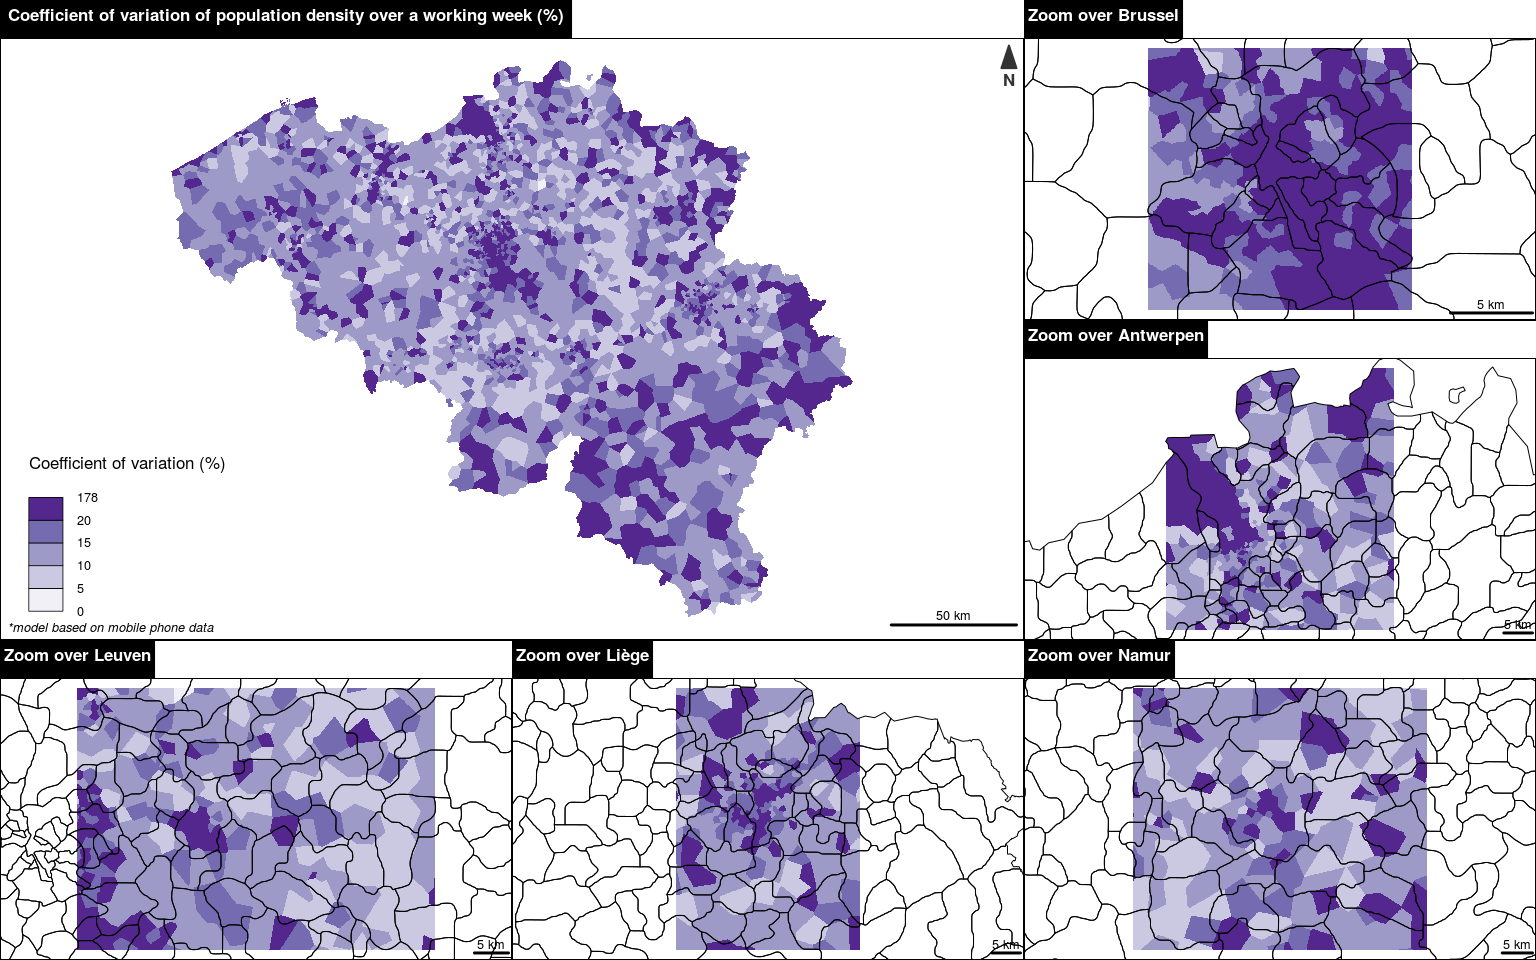
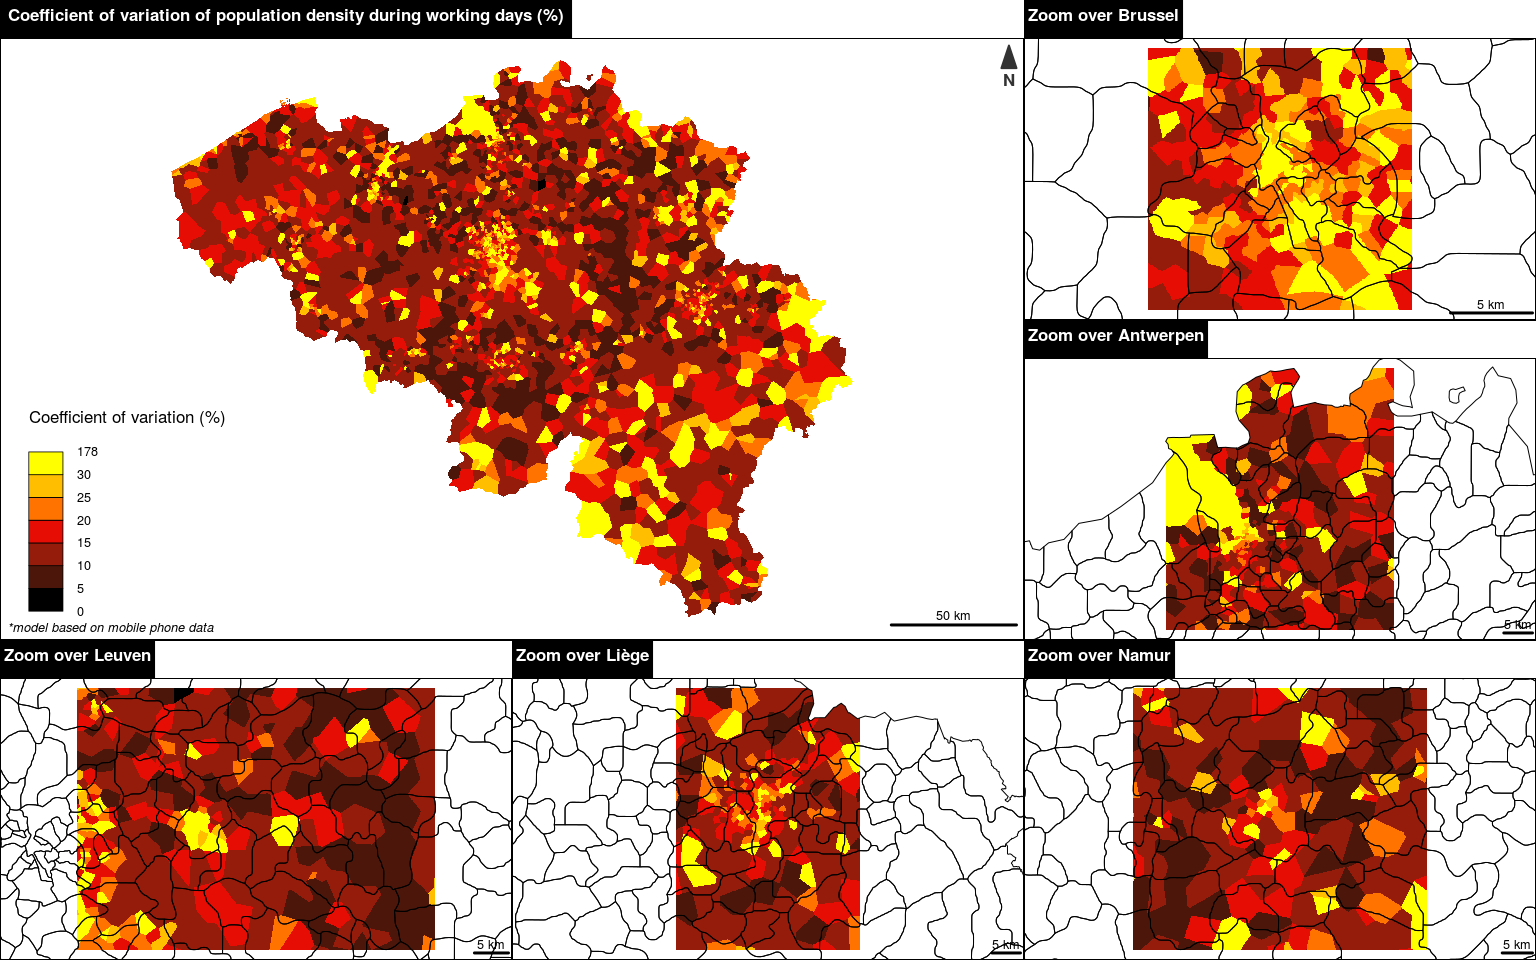
Update smartpop 6

diff --git a/content/post/2018-10-08-dynamic-population-mapping-smartpop-part-6.html b/content/post/2018-10-08-dynamic-population-mapping-smartpop-part-6.html
@@ -13,7 +13,6 @@ tags:
 header:
   caption: ''
   image: ''
-draft: true
 ---
 
 
@@ -26,19 +25,12 @@ shp &lt;- gdal_polygonizeR(r, &quot;/media/ubuntu/DATA/Data/Smartpop/Zone/zone_5
 <pre class="r"><code>library(sf)
 library(dplyr)
 
-shp &lt;- st_read(&quot;/media/ubuntu/DATA/Data/Smartpop/Zone/zone_50m_0.85km2.shp&quot;)
+shp &lt;- st_read(&quot;/media/ubuntu/DATA/Data/Smartpop/Zone/zone_50m_0.85km2.shp&quot;, quiet = T)
 shp &lt;- shp[!(shp$DN == 0), ]
 shp &lt;- shp[order(shp$DN),]  # needed to correctly cbind matrix data
 colnames(shp)[1] &lt;- &quot;ID_Grid&quot; 
 shp_dissolve &lt;- shp %&gt;% group_by(ID_Grid) %&gt;% summarize() # remove small polygons
 st_write(shp_dissolve, &quot;/media/ubuntu/DATA/Data/Smartpop/Zone/zone_50m_0.85km2_dissolve.shp&quot;)</code></pre>
-<pre><code>## Reading layer `zone_50m_0.85km2_dissolve&#39; from data source `/media/ubuntu/DATA/Data/Smartpop/Zone/zone_50m_0.85km2_dissolve.shp&#39; using driver `ESRI Shapefile&#39;
-## Simple feature collection with 3317 features and 1 field
-## geometry type:  MULTIPOLYGON
-## dimension:      XY
-## bbox:           xmin: 23052 ymin: 21127 xmax: 295252 ymax: 243827
-## epsg (SRID):    NA
-## proj4string:    NA</code></pre>
 <div id="population" class="section level2">
 <h2>Population</h2>
 <pre class="r"><code>library(raster)
@@ -75,7 +67,7 @@ fwrite(area, &quot;/media/ubuntu/DATA/Data/Smartpop/Zone/area_085_inKm2.csv&quot
 <pre class="r"><code>library(reshape)
 library(geosphere)
 
-shp &lt;- st_read(&quot;/media/ubuntu/DATA/Data/Smartpop/Zone/zone_50m_0.85km2_dissolve.shp&quot;)
+shp &lt;- st_read(&quot;/media/ubuntu/DATA/Data/Smartpop/Zone/zone_50m_0.85km2_dissolve.shp&quot;, quiet = T)
 st_crs(shp) &lt;- &quot;+proj=lcc +lat_1=51.16666723333333 +lat_2=49.8333339 +lat_0=90 +lon_0=4.367486666666666 +x_0=150000.013
 +y_0=5400088.438 +ellps=intl +units=m +no_defs&quot;
 
@@ -192,39 +184,18 @@ plotmap(map)</code></pre>
 </div>
 <div id="load-shapefile-for-subsetting-and-plotting" class="section level2">
 <h2>Load shapefile for subsetting and plotting</h2>
-<pre class="r"><code>region &lt;- st_read(&quot;/home/ubuntu/Dropbox/Research/Projects/SMARTPOP/Data/Belgium_Adm/BEL_adm_shp/BEL_adm3.shp&quot;)</code></pre>
-<pre><code>## Reading layer `BEL_adm3&#39; from data source `/home/ubuntu/Dropbox/Research/Projects/SMARTPOP/Data/Belgium_Adm/BEL_adm_shp/BEL_adm3.shp&#39; using driver `ESRI Shapefile&#39;
-## Simple feature collection with 44 features and 15 fields
-## geometry type:  MULTIPOLYGON
-## dimension:      XY
-## bbox:           xmin: 2.555356 ymin: 49.49722 xmax: 6.40787 ymax: 51.50382
-## epsg (SRID):    4326
-## proj4string:    +proj=longlat +datum=WGS84 +no_defs</code></pre>
-<pre class="r"><code>region &lt;- st_transform(region, st_crs(shp))
+<pre class="r"><code>region &lt;- st_read(&quot;/home/ubuntu/Dropbox/Research/Projects/SMARTPOP/Data/Belgium_Adm/BEL_adm_shp/BEL_adm3.shp&quot;, quiet = T)
+region &lt;- st_transform(region, st_crs(shp))
 
-commune &lt;- st_read(&quot;/home/ubuntu/Dropbox/Research/Projects/SMARTPOP/Data/Belgium_Adm/BEL_adm_shp/BEL_adm4.shp&quot;)</code></pre>
-<pre><code>## Reading layer `BEL_adm4&#39; from data source `/home/ubuntu/Dropbox/Research/Projects/SMARTPOP/Data/Belgium_Adm/BEL_adm_shp/BEL_adm4.shp&#39; using driver `ESRI Shapefile&#39;
-## Simple feature collection with 589 features and 16 fields
-## geometry type:  MULTIPOLYGON
-## dimension:      XY
-## bbox:           xmin: 2.555356 ymin: 49.49722 xmax: 6.40787 ymax: 51.50382
-## epsg (SRID):    4326
-## proj4string:    +proj=longlat +datum=WGS84 +no_defs</code></pre>
-<pre class="r"><code>commune &lt;- st_transform(commune, st_crs(shp))</code></pre>
+commune &lt;- st_read(&quot;/home/ubuntu/Dropbox/Research/Projects/SMARTPOP/Data/Belgium_Adm/BEL_adm_shp/BEL_adm4.shp&quot;, quiet = T)
+commune &lt;- st_transform(commune, st_crs(shp))</code></pre>
 <pre class="r"><code>library(matrixStats)
 library(cartography)
 
 UncertaintySpatialCV_mean &lt;- rowSds(as.matrix(UncertaintySpatialCV[, -1]), na.rm = T)
 
-shp &lt;- st_read(&quot;/media/ubuntu/DATA/Data/Smartpop/Zone/zone_50m_0.85km2_dissolve.shp&quot;)</code></pre>
-<pre><code>## Reading layer `zone_50m_0.85km2_dissolve&#39; from data source `/media/ubuntu/DATA/Data/Smartpop/Zone/zone_50m_0.85km2_dissolve.shp&#39; using driver `ESRI Shapefile&#39;
-## Simple feature collection with 3317 features and 1 field
-## geometry type:  MULTIPOLYGON
-## dimension:      XY
-## bbox:           xmin: 23052 ymin: 21127 xmax: 295252 ymax: 243827
-## epsg (SRID):    NA
-## proj4string:    NA</code></pre>
-<pre class="r"><code>st_crs(shp) &lt;- &quot;+proj=lcc +lat_1=51.16666723333333 +lat_2=49.8333339 +lat_0=90 +lon_0=4.367486666666666 +x_0=150000.013
+shp &lt;- st_read(&quot;/media/ubuntu/DATA/Data/Smartpop/Zone/zone_50m_0.85km2_dissolve.shp&quot;, quiet = T)
+st_crs(shp) &lt;- &quot;+proj=lcc +lat_1=51.16666723333333 +lat_2=49.8333339 +lat_0=90 +lon_0=4.367486666666666 +x_0=150000.013
 +y_0=5400088.438 +ellps=intl +units=m +no_defs&quot;
 
 shp &lt;- cbind(shp, UncertaintySpatialCV_mean)
@@ -265,13 +236,6 @@ for (city in c(&quot;Brussel&quot;, &quot;Antwerpen&quot;, &quot;Leuven&quot;, &
 <pre class="r"><code># plot(popVoro$pop, UncertaintySpatialCV_mean, xlab = &quot;Population density (inhab./km²)&quot;, 
 #      ylab = &quot;Uncertainty (inhab./km²)&quot;)</code></pre>
 <p>We can make similar map with relative uncertainty.</p>
-<pre><code>## Reading layer `zone_50m_0.85km2_dissolve&#39; from data source `/media/ubuntu/DATA/Data/Smartpop/Zone/zone_50m_0.85km2_dissolve.shp&#39; using driver `ESRI Shapefile&#39;
-## Simple feature collection with 3317 features and 1 field
-## geometry type:  MULTIPOLYGON
-## dimension:      XY
-## bbox:           xmin: 23052 ymin: 21127 xmax: 295252 ymax: 243827
-## epsg (SRID):    NA
-## proj4string:    NA</code></pre>
 <p><img src="/post/2018-10-08-dynamic-population-mapping-smartpop-part-6_files/figure-html/unnamed-chunk-14-1.png" width="768" /></p>
 </div>
 </div>
@@ -333,6 +297,11 @@ saveVideo(movie.name = &quot;/media/ubuntu/DATA/Data/Smartpop/Map/SIM_workingDay
 <h2>Risk map</h2>
 <pre class="r"><code>library(matrixStats)
 
+datesWeek &lt;- outer(c(&quot;Mon.&quot;, &quot;Tue.&quot;, &quot;Wed.&quot;, &quot;Thu.&quot;, &quot;Fri.&quot;, &quot;Sat.&quot;, &quot;Sun.&quot;), 0:23, FUN = &quot;paste0&quot;)
+datesWeek &lt;- t(datesWeek)
+dim(datesWeek) &lt;- NULL
+hours &lt;- rep(0:23, 7)
+
 PopWorkingDays_WE &lt;- WeekWorkingDays
 WeekWorkingDays_WE &lt;- WeekWorkingDays
 WeekWorkingDays_WE[is.na(WeekWorkingDays_WE)] &lt;- WeekHolidays[is.na(WeekWorkingDays_WE)]
@@ -343,7 +312,20 @@ for (i in 1:168) {
 
 PopWorkingDays_WE_DiffRef_Mean &lt;- (PopWorkingDays_WE[, 22] - rowMeans(PopWorkingDays_WE)) * 100 / PopWorkingDays_WE[, 22] 
 PopWorkingDays_WE_DiffRef_CV &lt;- rowSds(PopWorkingDays_WE) * 100 / rowMeans(PopWorkingDays_WE)
+PopWorkingDays_WE_DiffRef_which.max_day &lt;- datesWeek[apply(PopWorkingDays_WE,1,which.max)]
+PopWorkingDays_WE_DiffRef_which.max_hour &lt;- hours[apply(PopWorkingDays_WE,1,which.max)]
 
+colnames(PopWorkingDays_WE) &lt;- hours
+res &lt;- as.data.frame( # sapply returns a list here, so we convert it to a data.frame
+    sapply(unique(colnames(PopWorkingDays_WE)), # for each unique column name
+       function(col) rowMeans(PopWorkingDays_WE[,colnames(PopWorkingDays_WE) == col]) # calculate row means
+    )
+  )
+
+PopWorkingDays_WE_DiffRef_which.max_hour &lt;- c(0:23)[apply(res,1,which.max)]
+PopWorkingDays_WE_DiffRef_diff_morning_evening &lt;- (rowMeans(res[,11:17]) - rowMeans(res[,22:24])) * 100 / ((rowMeans(res[,11:17]) +rowMeans(res[,22:24]))/2)
+
+#################
 
 PopWeekHolidays_WE &lt;- WeekWorkingDays
 for (i in 1:168) {
@@ -353,47 +335,35 @@ for (i in 1:168) {
 
 PopWeekHolidays_WE_DiffRef_Mean &lt;- (PopWeekHolidays_WE[, 22] - rowMeans(PopWeekHolidays_WE)) * 100 / PopWeekHolidays_WE[, 22] 
 PopWeekHolidays_WE_DiffRef_CV &lt;- rowSds(PopWeekHolidays_WE) * 100 / rowMeans(PopWeekHolidays_WE)
+PopWeekHolidays_WE_DiffRef_which.max_day &lt;- datesWeek[apply(PopWeekHolidays_WE,1,which.max)]
+PopWeekHolidays_WE_DiffRef_which.max_hour &lt;- hours[apply(PopWeekHolidays_WE,1,which.max)]
 
-Pop &lt;- list(PopWorkingDays_WE_DiffRef_Mean, PopWeekHolidays_WE_DiffRef_Mean, PopWorkingDays_WE_DiffRef_CV, PopWeekHolidays_WE_DiffRef_CV)
+colnames(PopWeekHolidays_WE) &lt;- hours
+res &lt;- as.data.frame( # sapply returns a list here, so we convert it to a data.frame
+    sapply(unique(colnames(PopWeekHolidays_WE)), # for each unique column name
+       function(col) rowMeans(PopWeekHolidays_WE[,colnames(PopWeekHolidays_WE) == col]) # calculate row means
+    )
+  )
+
+PopWeekHolidays_WE_DiffRef_which.max_hour &lt;- c(0:23)[apply(res,1,which.max)]
+PopWeekHolidays_WE_DiffRef_diff_morning_evening &lt;- (rowMeans(res[,11:17]) - rowMeans(res[,22:24])) * 100 / ((rowMeans(res[,11:17]) +rowMeans(res[,22:24]))/2)
+
+#################
+Pop &lt;- list(PopWorkingDays_WE_DiffRef_Mean, PopWeekHolidays_WE_DiffRef_Mean, 
+            PopWorkingDays_WE_DiffRef_CV, PopWeekHolidays_WE_DiffRef_CV, 
+            PopWorkingDays_WE_DiffRef_which.max_hour, PopWeekHolidays_WE_DiffRef_which.max_hour,
+            PopWorkingDays_WE_DiffRef_diff_morning_evening, PopWeekHolidays_WE_DiffRef_diff_morning_evening)
 names(Pop) &lt;- c(&quot;PopWorkingDays_WE_DiffRef_Mean&quot;, &quot;PopWeekHolidays_WE_DiffRef_Mean&quot;, 
-                &quot;PopWorkingDays_WE_DiffRef_CV&quot;, &quot;PopWeekHolidays_WE_DiffRef_CV&quot;)</code></pre>
-<pre><code>## Reading layer `zone_50m_0.85km2_dissolve&#39; from data source `/media/ubuntu/DATA/Data/Smartpop/Zone/zone_50m_0.85km2_dissolve.shp&#39; using driver `ESRI Shapefile&#39;
-## Simple feature collection with 3317 features and 1 field
-## geometry type:  MULTIPOLYGON
-## dimension:      XY
-## bbox:           xmin: 23052 ymin: 21127 xmax: 295252 ymax: 243827
-## epsg (SRID):    NA
-## proj4string:    NA</code></pre>
-<p><img src="/post/2018-10-08-dynamic-population-mapping-smartpop-part-6_files/figure-html/unnamed-chunk-17-1.png" width="768" /></p>
-<pre><code>## Reading layer `zone_50m_0.85km2_dissolve&#39; from data source `/media/ubuntu/DATA/Data/Smartpop/Zone/zone_50m_0.85km2_dissolve.shp&#39; using driver `ESRI Shapefile&#39;
-## Simple feature collection with 3317 features and 1 field
-## geometry type:  MULTIPOLYGON
-## dimension:      XY
-## bbox:           xmin: 23052 ymin: 21127 xmax: 295252 ymax: 243827
-## epsg (SRID):    NA
-## proj4string:    NA</code></pre>
-<p><img src="/post/2018-10-08-dynamic-population-mapping-smartpop-part-6_files/figure-html/unnamed-chunk-17-2.png" width="768" /></p>
-<pre><code>## Reading layer `zone_50m_0.85km2_dissolve&#39; from data source `/media/ubuntu/DATA/Data/Smartpop/Zone/zone_50m_0.85km2_dissolve.shp&#39; using driver `ESRI Shapefile&#39;
-## Simple feature collection with 3317 features and 1 field
-## geometry type:  MULTIPOLYGON
-## dimension:      XY
-## bbox:           xmin: 23052 ymin: 21127 xmax: 295252 ymax: 243827
-## epsg (SRID):    NA
-## proj4string:    NA</code></pre>
-<p><img src="/post/2018-10-08-dynamic-population-mapping-smartpop-part-6_files/figure-html/unnamed-chunk-18-1.png" width="768" /></p>
-<pre><code>## Reading layer `zone_50m_0.85km2_dissolve&#39; from data source `/media/ubuntu/DATA/Data/Smartpop/Zone/zone_50m_0.85km2_dissolve.shp&#39; using driver `ESRI Shapefile&#39;
-## Simple feature collection with 3317 features and 1 field
-## geometry type:  MULTIPOLYGON
-## dimension:      XY
-## bbox:           xmin: 23052 ymin: 21127 xmax: 295252 ymax: 243827
-## epsg (SRID):    NA
-## proj4string:    NA</code></pre>
-<p><img src="/post/2018-10-08-dynamic-population-mapping-smartpop-part-6_files/figure-html/unnamed-chunk-18-2.png" width="768" /></p>
+                &quot;PopWorkingDays_WE_DiffRef_CV&quot;, &quot;PopWeekHolidays_WE_DiffRef_CV&quot;,
+                &quot;PopWorkingDays_WE_DiffRef_which.max_hour&quot;, &quot;PopWeekHolidays_WE_DiffRef_which.max_hour&quot;,
+                &quot;PopWorkingDays_WE_DiffRef_diff_morning_evening&quot;, &quot;PopWeekHolidays_WE_DiffRef_diff_morning_evening&quot;)</code></pre>
+<p><img src="/post/2018-10-08-dynamic-population-mapping-smartpop-part-6_files/figure-html/unnamed-chunk-17-1.png" width="768" /><img src="/post/2018-10-08-dynamic-population-mapping-smartpop-part-6_files/figure-html/unnamed-chunk-17-2.png" width="768" /> <img src="/post/2018-10-08-dynamic-population-mapping-smartpop-part-6_files/figure-html/unnamed-chunk-18-1.png" width="768" /><img src="/post/2018-10-08-dynamic-population-mapping-smartpop-part-6_files/figure-html/unnamed-chunk-18-2.png" width="768" /></p>
+<p><img src="/post/2018-10-08-dynamic-population-mapping-smartpop-part-6_files/figure-html/unnamed-chunk-19-1.png" width="768" /><img src="/post/2018-10-08-dynamic-population-mapping-smartpop-part-6_files/figure-html/unnamed-chunk-19-2.png" width="768" /> <img src="/post/2018-10-08-dynamic-population-mapping-smartpop-part-6_files/figure-html/unnamed-chunk-20-1.png" width="768" /><img src="/post/2018-10-08-dynamic-population-mapping-smartpop-part-6_files/figure-html/unnamed-chunk-20-2.png" width="768" /></p>
 <pre class="r"><code>library(raster)
 
 raster_ref &lt;- raster(&quot;/media/ubuntu/DATA/Data/Smartpop/Zone/zone_50m_0.85km2.tif&quot;)
 
-shp &lt;- st_read(&quot;/media/ubuntu/DATA/Data/Smartpop/Zone/zone_50m_0.85km2_dissolve.shp&quot;)
+shp &lt;- st_read(&quot;/media/ubuntu/DATA/Data/Smartpop/Zone/zone_50m_0.85km2_dissolve.shp&quot;, quiet = T)
 st_crs(shp) &lt;- &quot;+proj=lcc +lat_1=51.16666723333333 +lat_2=49.8333339 +lat_0=90 +lon_0=4.367486666666666 +x_0=150000.013
 +y_0=5400088.438 +ellps=intl +units=m +no_defs&quot;
 
@@ -458,17 +428,10 @@ zstat &lt;- myZonal(r, zone, &quot;mean&quot;)
 zstat &lt;- data.frame(zstat)
 colnames(zstat) &lt;- c(&quot;ID_4&quot;, &quot;PopWorkingDays_WE_DiffRef_Mean&quot;)
 
-commune &lt;- st_read(&quot;/home/ubuntu/Dropbox/Research/Projects/SMARTPOP/Data/Belgium_Adm/BEL_adm_shp/BEL_adm4.shp&quot;)</code></pre>
-<pre><code>## Reading layer `BEL_adm4&#39; from data source `/home/ubuntu/Dropbox/Research/Projects/SMARTPOP/Data/Belgium_Adm/BEL_adm_shp/BEL_adm4.shp&#39; using driver `ESRI Shapefile&#39;
-## Simple feature collection with 589 features and 16 fields
-## geometry type:  MULTIPOLYGON
-## dimension:      XY
-## bbox:           xmin: 2.555356 ymin: 49.49722 xmax: 6.40787 ymax: 51.50382
-## epsg (SRID):    4326
-## proj4string:    +proj=longlat +datum=WGS84 +no_defs</code></pre>
-<pre class="r"><code>commune &lt;- st_transform(commune, st_crs(shp))
+commune &lt;- st_read(&quot;/home/ubuntu/Dropbox/Research/Projects/SMARTPOP/Data/Belgium_Adm/BEL_adm_shp/BEL_adm4.shp&quot;, quiet = T)
+commune &lt;- st_transform(commune, st_crs(shp))
 commune$PopWorkingDays_WE_DiffRef_Mean &lt;- zstat$PopWorkingDays_WE_DiffRef_Mean[-1]</code></pre>
-<p><img src="/post/2018-10-08-dynamic-population-mapping-smartpop-part-6_files/figure-html/unnamed-chunk-21-1.png" width="768" /></p>
+<p><img src="/post/2018-10-08-dynamic-population-mapping-smartpop-part-6_files/figure-html/unnamed-chunk-23-1.png" width="768" /></p>
 <pre><code>##             NAME_4 PopWorkingDays_WE_DiffRef_Mean
 ## 293 Spiere-Helkijn                     -297.70485
 ## 427          Engis                     -132.67484
